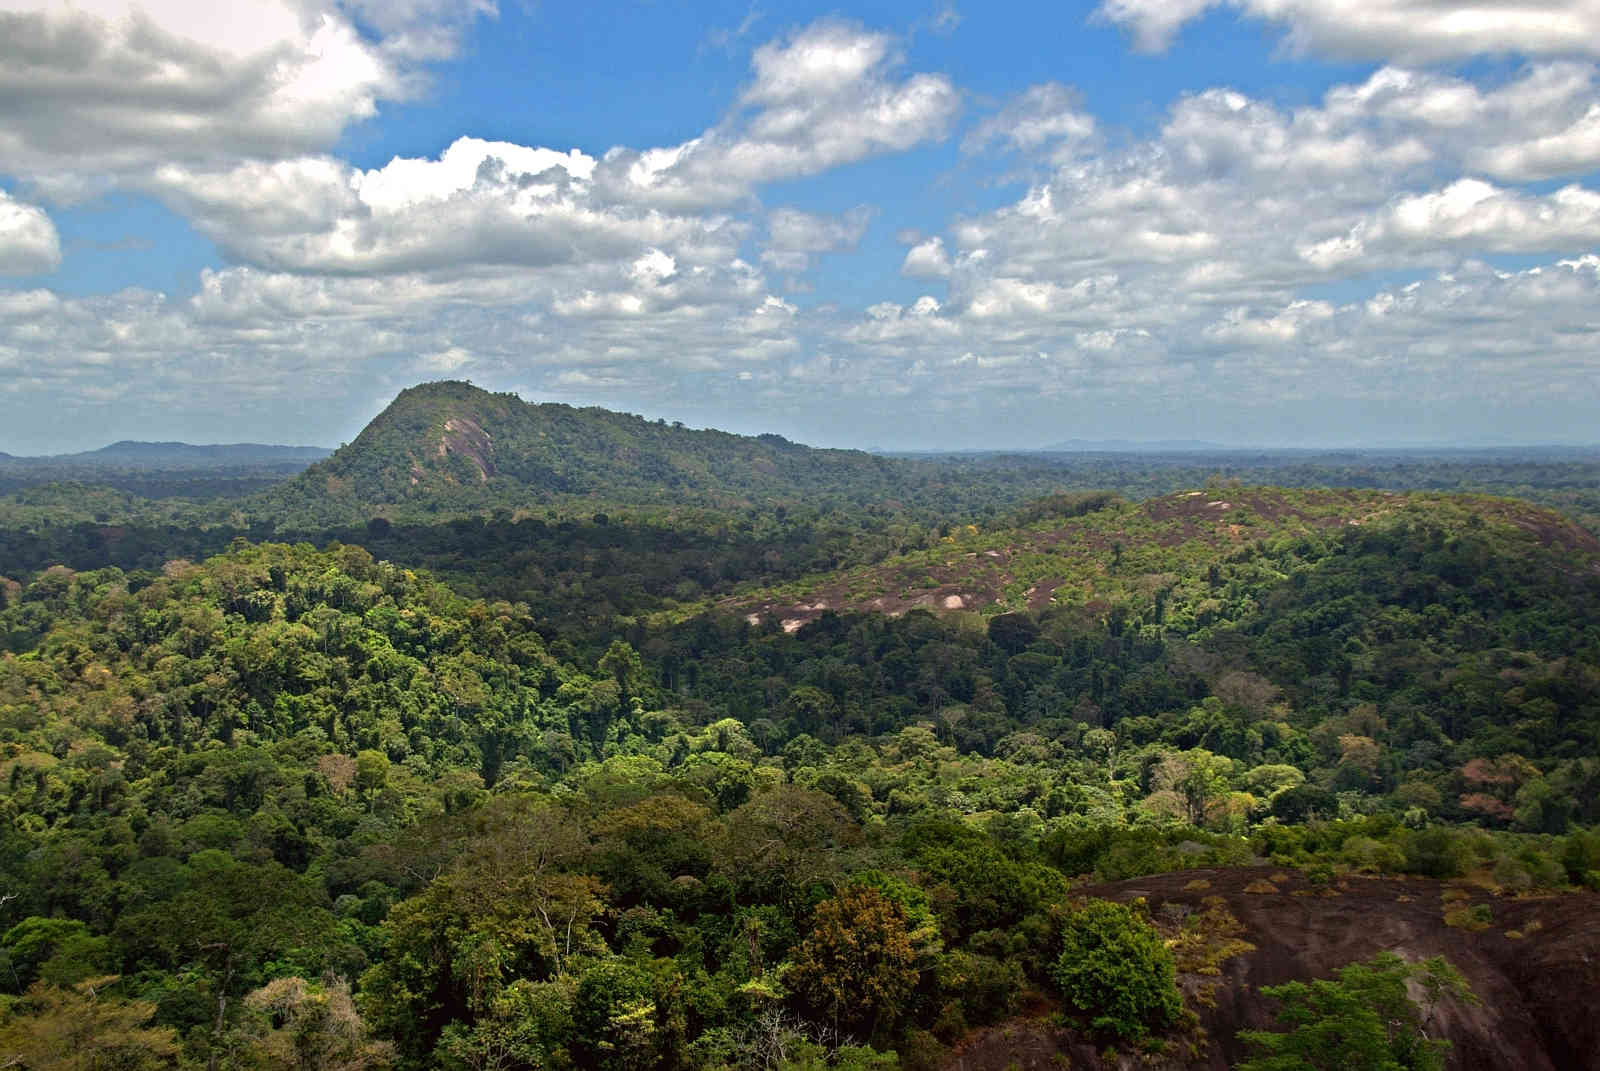
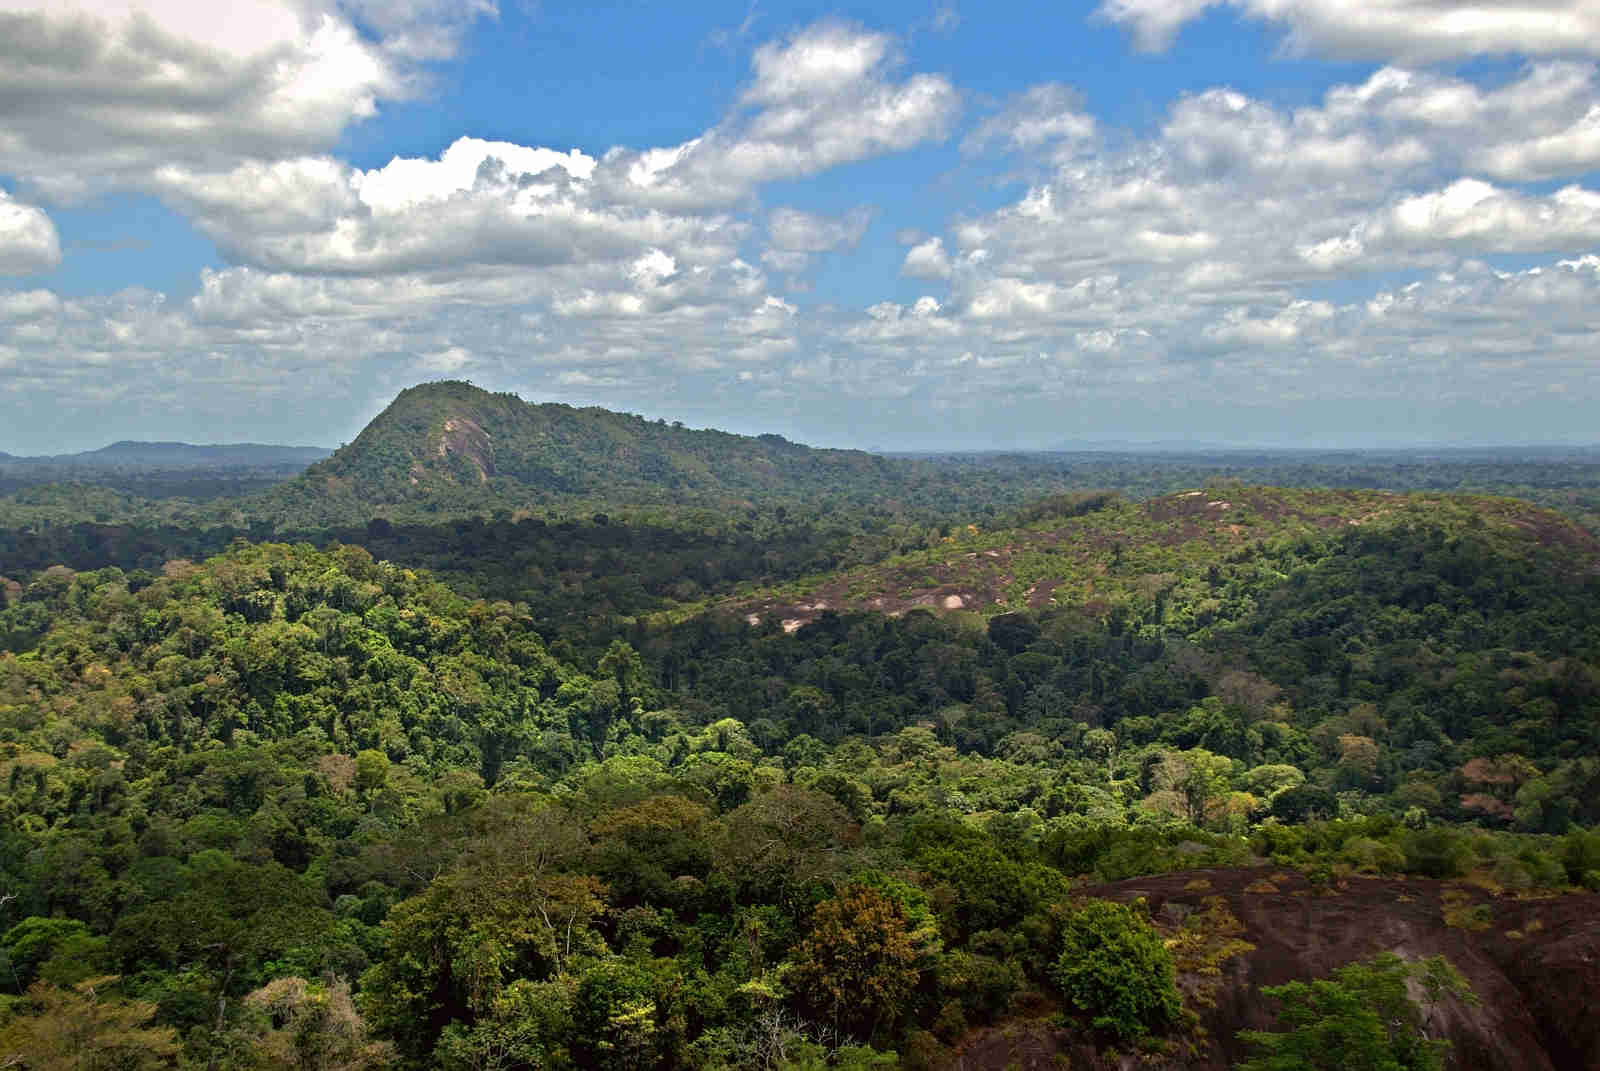
fix nav hover and compress images

diff --git a/src/css/main.less b/src/css/main.less
@@ -90,6 +90,18 @@ input[type="submit"] {
           }
         }
       }
+      #mastnav {
+        ul.parent {
+          > li {
+            &:hover,
+            &.active {
+              a {
+                color: #333;
+              }
+            }
+          }
+        }
+      }
     }
   }
   h1 {
@@ -153,10 +165,6 @@ input[type="submit"] {
           display: block;
           padding: 0;
           line-height: 77px;
-        }
-        &:hover,
-        &.active {
-          color: #333;
         }
         &.active {
           &:after {
